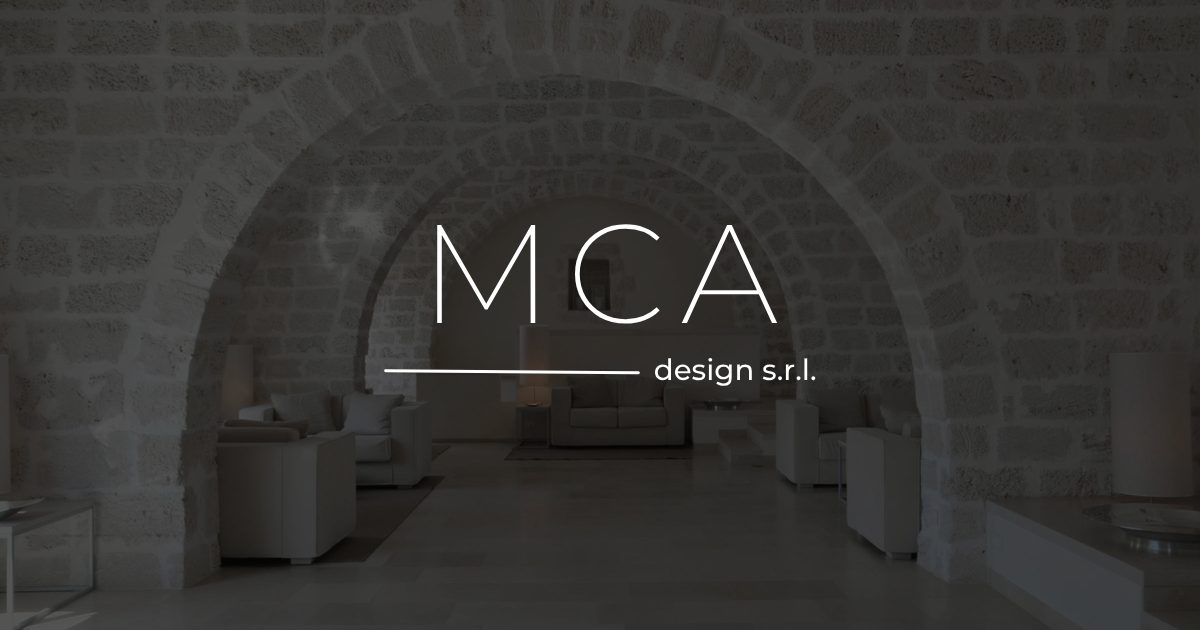
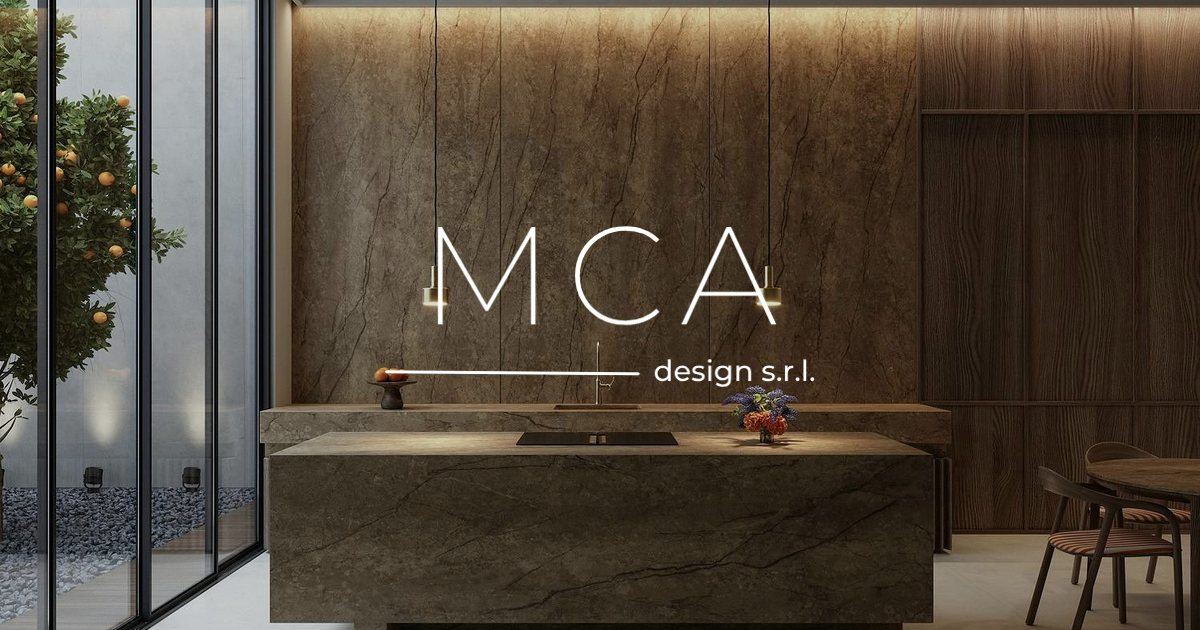
1.0.6

diff --git a/index.html b/index.html
@@ -4,7 +4,7 @@
 <meta charset="utf-8">
 <meta name="viewport" content="width=device-width, initial-scale=1">
 <title>Marmi e pietre naturali su misura ad Alberobello &mdash; MCA design</title>
-<meta name="description" content="MCA design s.r.l. ad Alberobello (BA): selezione, lavorazione e posa di marmi, graniti, travertini e pietre naturali. Scale, pavimenti, top cucina e bagno, piatti doccia su misura in tutta la provincia di Bari e in Puglia. Rivenditori Cosentino, Dekton, Silestone e Sensa.">
+<meta name="description" content="Marmi, graniti e pietre naturali ad Alberobello (BA): scale, pavimenti, top cucina e bagno, piatti doccia su misura. Fornitura e posa in tutta la Puglia.">
 <link rel="canonical" href="https://www.mca-design.it/">
 <meta name="robots" content="index, follow, max-image-preview:large, max-snippet:-1, max-video-preview:-1">
 <meta name="author" content="MCA design s.r.l.">
@@ -27,19 +27,20 @@
 <meta property="og:url" content="https://www.mca-design.it/">
 <meta property="og:title" content="Marmi e pietre naturali su misura ad Alberobello &mdash; MCA design">
 <meta property="og:description" content="Selezione, lavorazione e posa di marmi, graniti e pietre naturali. Scale, pavimenti, top cucina e bagno, piatti doccia su misura.">
-<meta property="og:image" content="https://www.mca-design.it/assets/img/social-preview.jpg">
+<meta property="og:image" content="https://www.mca-design.it/assets/img/social-preview.jpg?v=2">
 <meta property="og:image:width" content="1200">
 <meta property="og:image:height" content="630">
-<meta property="og:image:alt" content="Salone con volte in pietra realizzato da MCA design">
+<meta property="og:image:alt" content="Cucina con isola e rivestimento in marmo realizzati da MCA design">
 <meta property="og:locale" content="it_IT">
 <meta name="twitter:card" content="summary_large_image">
 <meta name="twitter:title" content="Marmi e pietre naturali su misura ad Alberobello &mdash; MCA design">
 <meta name="twitter:description" content="Selezione, lavorazione e posa di marmi, graniti e pietre naturali.">
-<meta name="twitter:image" content="https://www.mca-design.it/assets/img/social-preview.jpg">
+<meta name="twitter:image" content="https://www.mca-design.it/assets/img/social-preview.jpg?v=2">
 
+<link rel="preload" href="assets/img/hero-cucina.jpg" as="image" fetchpriority="high">
 <link rel="preload" href="assets/fonts/jost-latin.woff2" as="font" type="font/woff2" crossorigin>
 <link rel="preload" href="assets/fonts/inter-latin.woff2" as="font" type="font/woff2" crossorigin>
-<link rel="stylesheet" href="style.css?v=28">
+<link rel="stylesheet" href="style.css?v=30">
 
 <!-- ==========================================================================
      DATI AZIENDA per Google e per gli assistenti AI (schema.org).
@@ -65,7 +66,13 @@
         "width": 432,
         "height": 162
       },
-      "image": "https://www.mca-design.it/assets/img/social-preview.jpg",
+      "image": [
+        "https://www.mca-design.it/assets/img/social-preview.jpg?v=2",
+        "https://www.mca-design.it/assets/img/hero-cucina.jpg",
+        "https://www.mca-design.it/assets/img/g01-full.jpg",
+        "https://www.mca-design.it/assets/img/g02-full.jpg",
+        "https://www.mca-design.it/assets/img/g09-full.jpg"
+      ],
       "description": "Selezione, lavorazione e posa di marmi, graniti, travertini e pietre naturali. Scale, pavimenti interni ed esterni, top cucina e bagno, piatti doccia su misura per hotel, residenze private e spazi contract.",
       "telephone": "+39 349 551 9357",
       "email": "info@mca-design.it",
@@ -371,7 +378,7 @@
       },
       "primaryImageOfPage": {
         "@type": "ImageObject",
-        "url": "https://www.mca-design.it/assets/img/social-preview.jpg"
+        "url": "https://www.mca-design.it/assets/img/social-preview.jpg?v=2"
       },
       "inLanguage": "it-IT"
     },
@@ -1029,6 +1036,6 @@
   </figure>
 </div>
 
-<script src="script.js?v=28"></script>
+<script src="script.js?v=30"></script>
 </body>
 </html>

diff --git a/promozioni.html b/promozioni.html
@@ -16,16 +16,16 @@
 <meta property="og:url" content="https://www.mca-design.it/promozioni.html">
 <meta property="og:title" content="Promozioni su marmi e pietre naturali &mdash; MCA design s.r.l.">
 <meta property="og:description" content="Lotti in pronta consegna e lavorazioni a prezzo bloccato.">
-<meta property="og:image" content="https://www.mca-design.it/assets/img/social-preview.jpg">
+<meta property="og:image" content="https://www.mca-design.it/assets/img/social-preview.jpg?v=2">
 <meta property="og:image:width" content="1200">
 <meta property="og:image:height" content="630">
 <meta property="og:locale" content="it_IT">
 <meta name="twitter:card" content="summary_large_image">
-<meta name="twitter:image" content="https://www.mca-design.it/assets/img/social-preview.jpg">
+<meta name="twitter:image" content="https://www.mca-design.it/assets/img/social-preview.jpg?v=2">
 
 <link rel="preload" href="assets/fonts/jost-latin.woff2" as="font" type="font/woff2" crossorigin>
 <link rel="preload" href="assets/fonts/inter-latin.woff2" as="font" type="font/woff2" crossorigin>
-<link rel="stylesheet" href="style.css?v=28">
+<link rel="stylesheet" href="style.css?v=30">
 
 <script type="application/ld+json">
 {
@@ -164,6 +164,6 @@
   <svg viewBox="0 0 24 24" aria-hidden="true"><path d="M12.04 2C6.58 2 2.13 6.45 2.13 11.91c0 1.75.46 3.45 1.32 4.95L2 22l5.25-1.38a9.87 9.87 0 0 0 4.79 1.22h.01c5.46 0 9.91-4.45 9.91-9.91C21.96 6.45 17.5 2 12.04 2Zm5.8 14.12c-.25.69-1.44 1.32-1.99 1.37-.53.05-1.02.24-3.44-.72-2.9-1.14-4.74-4.1-4.88-4.29-.14-.19-1.17-1.55-1.17-2.96s.74-2.1 1-2.39c.26-.29.57-.36.76-.36l.54.01c.17 0 .41-.07.64.49.24.57.8 1.98.87 2.13.07.14.12.31.02.5-.09.19-.14.31-.28.48-.14.17-.3.37-.42.5-.14.14-.29.29-.12.57.16.29.73 1.2 1.56 1.94 1.07.95 1.98 1.25 2.26 1.39.28.14.45.12.61-.07.17-.19.71-.83.9-1.11.19-.29.38-.24.64-.14.26.09 1.67.79 1.95.93.29.14.48.21.55.33.07.12.07.69-.18 1.38Z"/></svg>
 </a>
 
-<script src="script.js?v=28"></script>
+<script src="script.js?v=30"></script>
 </body>
 </html>

diff --git a/cookie.html b/cookie.html
@@ -6,7 +6,7 @@
 <title>Cookie policy &mdash; MCA design s.r.l.</title>
 <meta name="description" content="Cookie policy di MCA design s.r.l.: questo sito non utilizza cookie né strumenti di tracciamento.">
 <link rel="canonical" href="https://www.mca-design.it/cookie.html">
-<meta name="robots" content="index, follow">
+<meta name="robots" content="index, follow, noimageindex">
 <meta name="theme-color" content="#fbfaf8">
 <link rel="icon" type="image/png" href="assets/img/favicon.png">
 <link rel="apple-touch-icon" href="assets/img/favicon.png">
@@ -18,7 +18,7 @@
 
 <link rel="preload" href="assets/fonts/jost-latin.woff2" as="font" type="font/woff2" crossorigin>
 <link rel="preload" href="assets/fonts/inter-latin.woff2" as="font" type="font/woff2" crossorigin>
-<link rel="stylesheet" href="style.css?v=28">
+<link rel="stylesheet" href="style.css?v=30">
 
 <script type="application/ld+json">
 {
@@ -192,6 +192,6 @@
   </div>
 </footer>
 
-<script src="script.js?v=28"></script>
+<script src="script.js?v=30"></script>
 </body>
 </html>

diff --git a/privacy.html b/privacy.html
@@ -6,7 +6,7 @@
 <title>Privacy policy &mdash; MCA design s.r.l.</title>
 <meta name="description" content="Informativa privacy di MCA design s.r.l. ai sensi del Regolamento UE 2016/679 (GDPR).">
 <link rel="canonical" href="https://www.mca-design.it/privacy.html">
-<meta name="robots" content="index, follow">
+<meta name="robots" content="index, follow, noimageindex">
 <meta name="theme-color" content="#fbfaf8">
 <link rel="icon" type="image/png" href="assets/img/favicon.png">
 <link rel="apple-touch-icon" href="assets/img/favicon.png">
@@ -18,7 +18,7 @@
 
 <link rel="preload" href="assets/fonts/jost-latin.woff2" as="font" type="font/woff2" crossorigin>
 <link rel="preload" href="assets/fonts/inter-latin.woff2" as="font" type="font/woff2" crossorigin>
-<link rel="stylesheet" href="style.css?v=28">
+<link rel="stylesheet" href="style.css?v=30">
 
 <script type="application/ld+json">
 {
@@ -219,6 +219,6 @@
   </div>
 </footer>
 
-<script src="script.js?v=28"></script>
+<script src="script.js?v=30"></script>
 </body>
 </html>

diff --git a/README.md b/README.md
@@ -11,8 +11,9 @@ index.html       la home (struttura e testi)
 promozioni.html  pagina esterna con tutte le promozioni
 privacy.html     informativa privacy
 cookie.html      cookie policy
-robots.txt       istruzioni per i motori di ricerca
-sitemap.xml      elenco delle pagine per i motori di ricerca
+robots.txt       istruzioni per i motori di ricerca e per gli assistenti AI
+sitemap.xml      elenco di pagine e immagini per i motori di ricerca
+llms.txt         scheda sintetica dell'azienda, leggibile dagli assistenti AI
 style.css        tutti gli stili, desktop e mobile
 script.js        comportamenti + CONFIG + PROMOZIONI + GALLERIA
 assets/img/      immagini ottimizzate per il web (generate da galleria/)
@@ -144,8 +145,33 @@ ricerche locali e nelle mappe serve un profilo su *Google Business Profile* con
 nome, indirizzo e telefono **identici** a quelli del sito. È il fattore che pesa
 di più per una ricerca tipo «marmista vicino a me».
 
-**5. Dopo la pubblicazione.** Registrare il sito su Google Search Console e
+**3. Dopo la pubblicazione.** Registrare il sito su Google Search Console e
 inviare `sitemap.xml`.
+
+## Anteprima dei link
+
+Condividendo il sito su WhatsApp, Facebook, LinkedIn o X compare
+`assets/img/social-preview.jpg`: la foto dell'hero ritagliata a 1200×630 con il
+logo sopra.
+
+Se cambiate la foto dell'hero, va rigenerata anche questa (stesso ritaglio) e va
+alzato il contatore `?v=` nei meta `og:image` e `twitter:image` di `index.html` e
+`promozioni.html`. **WhatsApp e Facebook tengono in cache l'anteprima a lungo**:
+senza contatore continuerebbero a mostrare quella vecchia per settimane.
+
+## Assistenti AI (GEO)
+
+Tre cose fanno sì che ChatGPT, Claude, Perplexity e Gemini possano citare
+l'azienda correttamente:
+
+- `robots.txt` **consente esplicitamente** i loro crawler (GPTBot, OAI-SearchBot,
+  ClaudeBot, PerplexityBot, Google-Extended, Applebot-Extended). Per vietarne uno,
+  cambiate `Allow: /` in `Disallow: /` sotto il suo nome.
+- `llms.txt` è una scheda sintetica in testo semplice con recapiti, prodotti,
+  materiali e servizi: **va tenuta allineata al `CONFIG`** quando cambiano i dati.
+- I dati strutturati `LocalBusiness` e `FAQPage` nell'`<head>` di `index.html`
+  sono la fonte che gli assistenti leggono per rispondere a domande come
+  «chi lavora il marmo ad Alberobello».
 
 ## Domande frequenti
 
